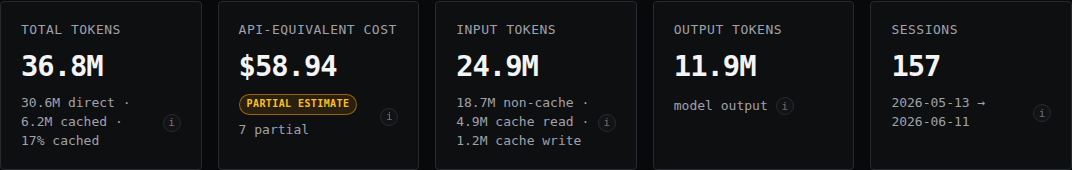
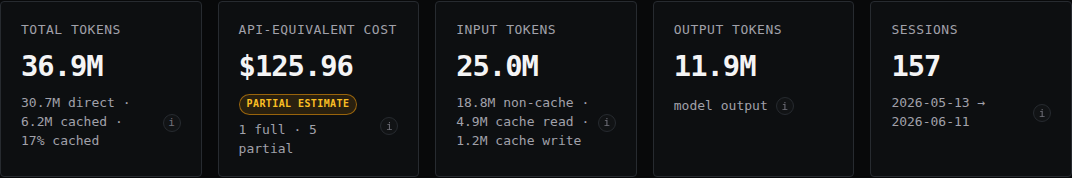
Tighten README usage screenshot

diff --git a/dashboard/simulation.py b/dashboard/simulation.py
@@ -42,15 +42,15 @@ def build_simulated_dataset(days: int | None = 31) -> dict:
     ]
 
     model_specs = [
-        {"tool": "OpenCode", "tool_id": "opencode", "provider": "opencode-go", "model_id": "kimi-k2.6", "base": 210_000, "burst": 2.1, "session_ratio": 0.20},
-        {"tool": "OpenCode", "tool_id": "opencode", "provider": "opencode-go", "model_id": "deepseek-v4-flash", "base": 150_000, "burst": 1.3, "session_ratio": 0.18},
-        {"tool": "OpenCode", "tool_id": "opencode", "provider": "opencode-go", "model_id": "qwen3.6-plus", "base": 90_000, "burst": 0.82, "session_ratio": 0.11},
-        {"tool": "Codex CLI", "tool_id": "codex", "provider": "openai-codex", "model_id": "gpt-5.1-codex", "base": 170_000, "burst": 1.7, "session_ratio": 0.16},
-        {"tool": "Codex CLI", "tool_id": "codex", "provider": "openai-codex", "model_id": "gpt-5.1", "base": 95_000, "burst": 0.95, "session_ratio": 0.11},
-        {"tool": "Codex CLI", "tool_id": "codex", "provider": "openai-codex", "model_id": "o4-mini-high", "base": 70_000, "burst": 0.72, "session_ratio": 0.09},
-        {"tool": "Hermes", "tool_id": "hermes", "provider": "hermes-agent", "model_id": "qwen3-coder", "base": 120_000, "burst": 1.05, "session_ratio": 0.13},
-        {"tool": "Hermes", "tool_id": "hermes", "provider": "hermes-agent", "model_id": "gpt-oss-120b", "base": 85_000, "burst": 0.82, "session_ratio": 0.10},
-        {"tool": "Hermes", "tool_id": "hermes", "provider": "hermes-agent", "model_id": "llama-4-maverick", "base": 65_000, "burst": 0.62, "session_ratio": 0.08},
+        {"tool": "OpenCode", "tool_id": "opencode", "provider": "opencode", "model_id": "deepseek-v4-flash-free", "base": 210_000, "burst": 2.1, "session_ratio": 0.20},
+        {"tool": "OpenCode", "tool_id": "opencode", "provider": "opencode", "model_id": "qwen3.6-plus-free", "base": 150_000, "burst": 1.3, "session_ratio": 0.18},
+        {"tool": "OpenCode", "tool_id": "opencode", "provider": "opencode", "model_id": "minimax-m3-free", "base": 90_000, "burst": 0.82, "session_ratio": 0.11},
+        {"tool": "Codex CLI", "tool_id": "codex", "provider": "openai", "model_id": "gpt-5.5", "base": 170_000, "burst": 1.7, "session_ratio": 0.16},
+        {"tool": "Codex CLI", "tool_id": "codex", "provider": "openai", "model_id": "gpt-5.4-mini", "base": 95_000, "burst": 0.95, "session_ratio": 0.11},
+        {"tool": "Codex CLI", "tool_id": "codex", "provider": "openai", "model_id": "gpt-5.3-codex-spark", "base": 70_000, "burst": 0.72, "session_ratio": 0.09},
+        {"tool": "Hermes", "tool_id": "hermes", "provider": "nous", "model_id": "nvidia/nemotron-3-ultra:free", "base": 120_000, "burst": 1.05, "session_ratio": 0.13},
+        {"tool": "Hermes", "tool_id": "hermes", "provider": "openai-codex", "model_id": "gpt-5.5", "base": 85_000, "burst": 0.82, "session_ratio": 0.10},
+        {"tool": "Hermes", "tool_id": "hermes", "provider": "openai-codex", "model_id": "gpt-5.4-mini", "base": 65_000, "burst": 0.62, "session_ratio": 0.08},
     ]
 
     daily = {}
@@ -75,7 +75,7 @@ def build_simulated_dataset(days: int | None = 31) -> dict:
             burst_factor = 0.28
 
         for spec in model_specs:
-            if index > int(window_days * 0.82) and spec["model_id"] not in {"kimi-k2.6", "gpt-5.1-codex", "qwen3-coder"}:
+            if index > int(window_days * 0.82) and spec["model_id"] not in {"deepseek-v4-flash-free", "gpt-5.5", "nvidia/nemotron-3-ultra:free"}:
                 activity_factor = 0.0
             else:
                 activity_factor = 0.82 + rng.random() * 0.42

diff --git a/scripts/snapshot_dashboard.py b/scripts/snapshot_dashboard.py
@@ -18,6 +18,7 @@ DOCS_SCREENSHOTS = {
     "model-breakdown": "#models",
     "usage-history": "#usage",
 }
+DOCS_USAGE_HISTORY_ROWS = 6
 
 
 def main() -> None:
@@ -52,6 +53,11 @@ def main() -> None:
         if args.docs:
             screenshot_outputs = {}
             for name, selector in DOCS_SCREENSHOTS.items():
+                if name == "usage-history":
+                    page.locator("#history-table-body tr").evaluate_all(
+                        "(rows, visibleRows) => rows.forEach((row, index) => { if (index >= visibleRows) row.remove(); })",
+                        DOCS_USAGE_HISTORY_ROWS,
+                    )
                 path = out_dir / f"dashboard-{name}.png"
                 page.locator(selector).screenshot(path=path)
                 screenshot_outputs[name] = str(path)

diff --git a/tests/test_app.py b/tests/test_app.py
@@ -832,7 +832,7 @@ class DashboardApiTests(unittest.TestCase):
         codex_daily = self.client.get('/api/daily?simulate=1&days=31&tool_id=codex').get_json()
         self.assertEqual(codex_daily['selected_tool_id'], 'codex')
         self.assertTrue(codex_daily['models'])
-        self.assertTrue(all(model['id'].startswith('openai-codex/') for model in codex_daily['models']))
+        self.assertTrue(all(model['id'].startswith('openai/') for model in codex_daily['models']))
 
         history = self.client.get('/api/usage-history?simulate=1&limit=5').get_json()
         self.assertEqual(len(history), 5)
